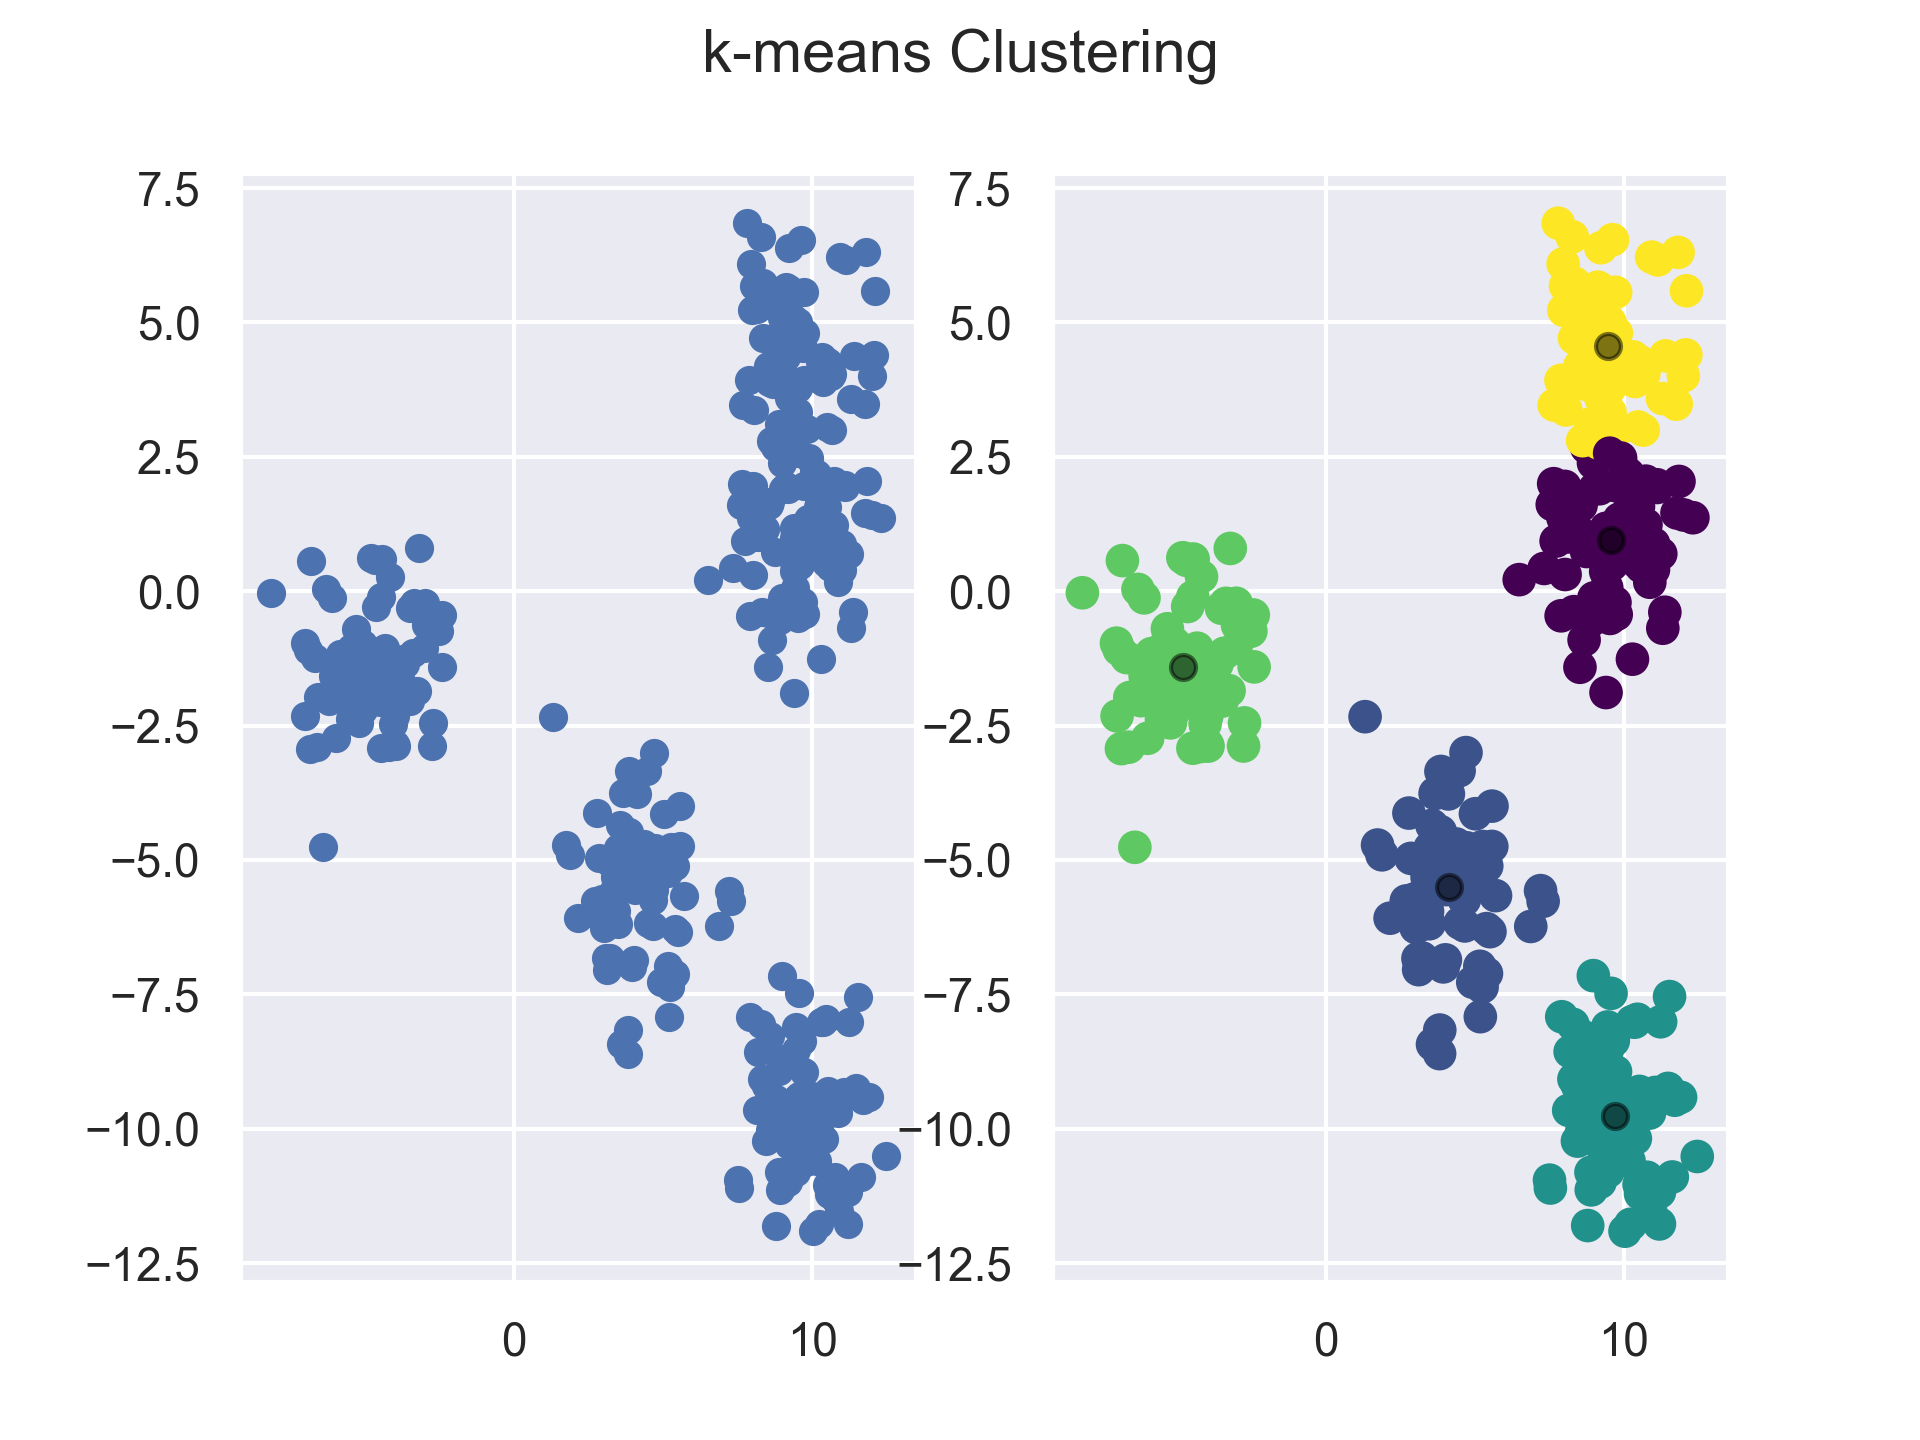
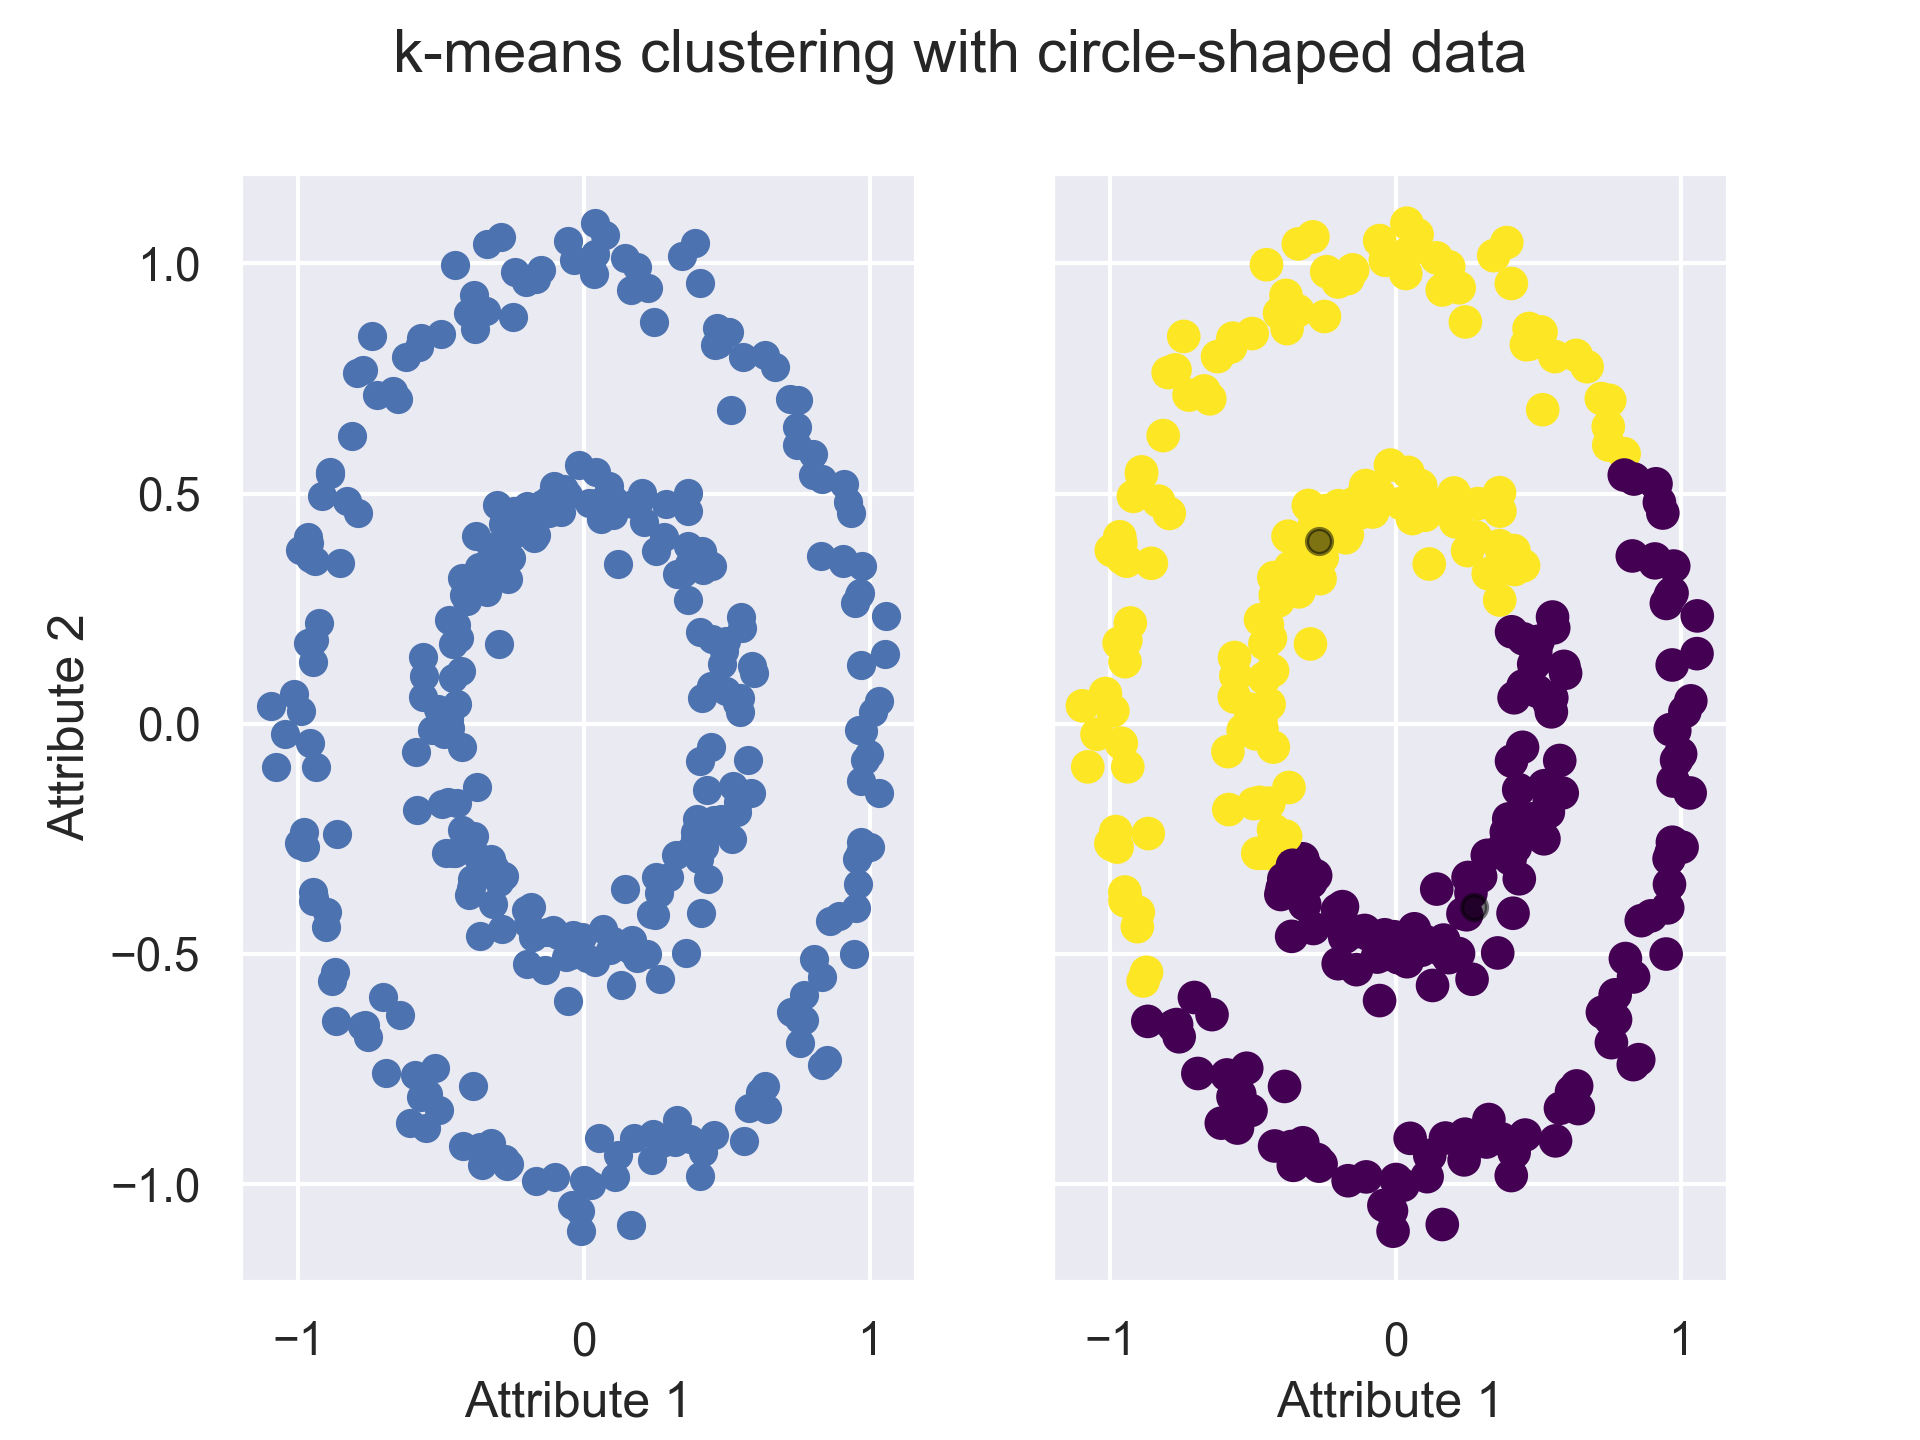
make plots more beautiful

diff --git a/k-means.py b/k-means.py
@@ -57,7 +57,6 @@ def perform_calculations_method():
     # Step (2.1): Preparations
     #----------------------------------------------
     fig, (ax1, ax2) = plt.subplots(1, 2)
-    fig.suptitle('k-means Clustering')
 
     # Step (2.2): settings
     #----------------------------------------------
@@ -68,14 +67,18 @@ def perform_calculations_method():
         n_dimensions = 2  # for n=3 its harder to plot; you need mplot3d for example
         n_clusters_real = 5 # real amount of clusters
         n_clusters_algorithm = 5  # how many clusters should the algorithm detect?
+        data_type = "Gauß data"
 
     elif(data_distribution_type == "type_crescent"):
         value_noise = 0.05
         n_clusters_algorithm = 2  # how many clusters should the algorithm detect?
+        data_type = "crescent-shaped data"
 
     elif(data_distribution_type == "type_circular"):
         value_noise = 0.05
         n_clusters_algorithm = 2  # how many clusters should the algorithm detect?
+        data_type = "circle-shaped data"
+
     #see more types here: https://scikit-learn.org/stable/modules/classes.html#module-sklearn.datasets
 
     #else:
@@ -107,10 +110,11 @@ def perform_calculations_method():
     #----------------------------------------------
     print(X.shape)
     ax1.scatter(X[:, 0], X[:, 1]) #2D data
+    ax1.set(xlabel='Attribute 1', ylabel='Attribute 2')
 
     # Step (2.5): Perform k-means algorithm
     #----------------------------------------------
-    kmeans = KMeans(n_clusters=n_clusters_algorithm)
+    kmeans = KMeans(n_clusters=n_clusters_algorithm, algorithm="auto") #according to Python doc: The k-means problem is solved using either Lloyd’s or Elkan’s algorithm.
     kmeans.fit(X)
     y_kmeans = kmeans.predict(X)
 
@@ -120,9 +124,13 @@ def perform_calculations_method():
     plt.scatter(X[:, 0], X[:, 1], c=y_kmeans, s=50, cmap='viridis')
     centers = kmeans.cluster_centers_
     ax2.scatter(centers[:, 0], centers[:, 1], c='black', alpha=0.5);
+    ax2.set(xlabel='Attribute 1', ylabel='Attribute 2')
 
     # Step (2.7): Plot
     #----------------------------------------------
+    for ax in (ax1, ax2): # Hide x labels and tick labels for top plots and y ticks for right plots.
+        ax.label_outer()
+    fig.suptitle('k-means clustering with '+data_type)
     plt.savefig('img.png', dpi=300)
     plt.show()
 
@@ -131,7 +139,7 @@ def perform_calculations_method():
 # ----------------------------------------------
 while(mode_on == True):
 
-    Button_Start_Gauss = tk.Button(text='Gauss Data',
+    Button_Start_Gauss = tk.Button(text='Gauß Data',
                          bg='lawn green', fg='black',
                          height = 3, width = 5,
                          command=answ_gauss)
